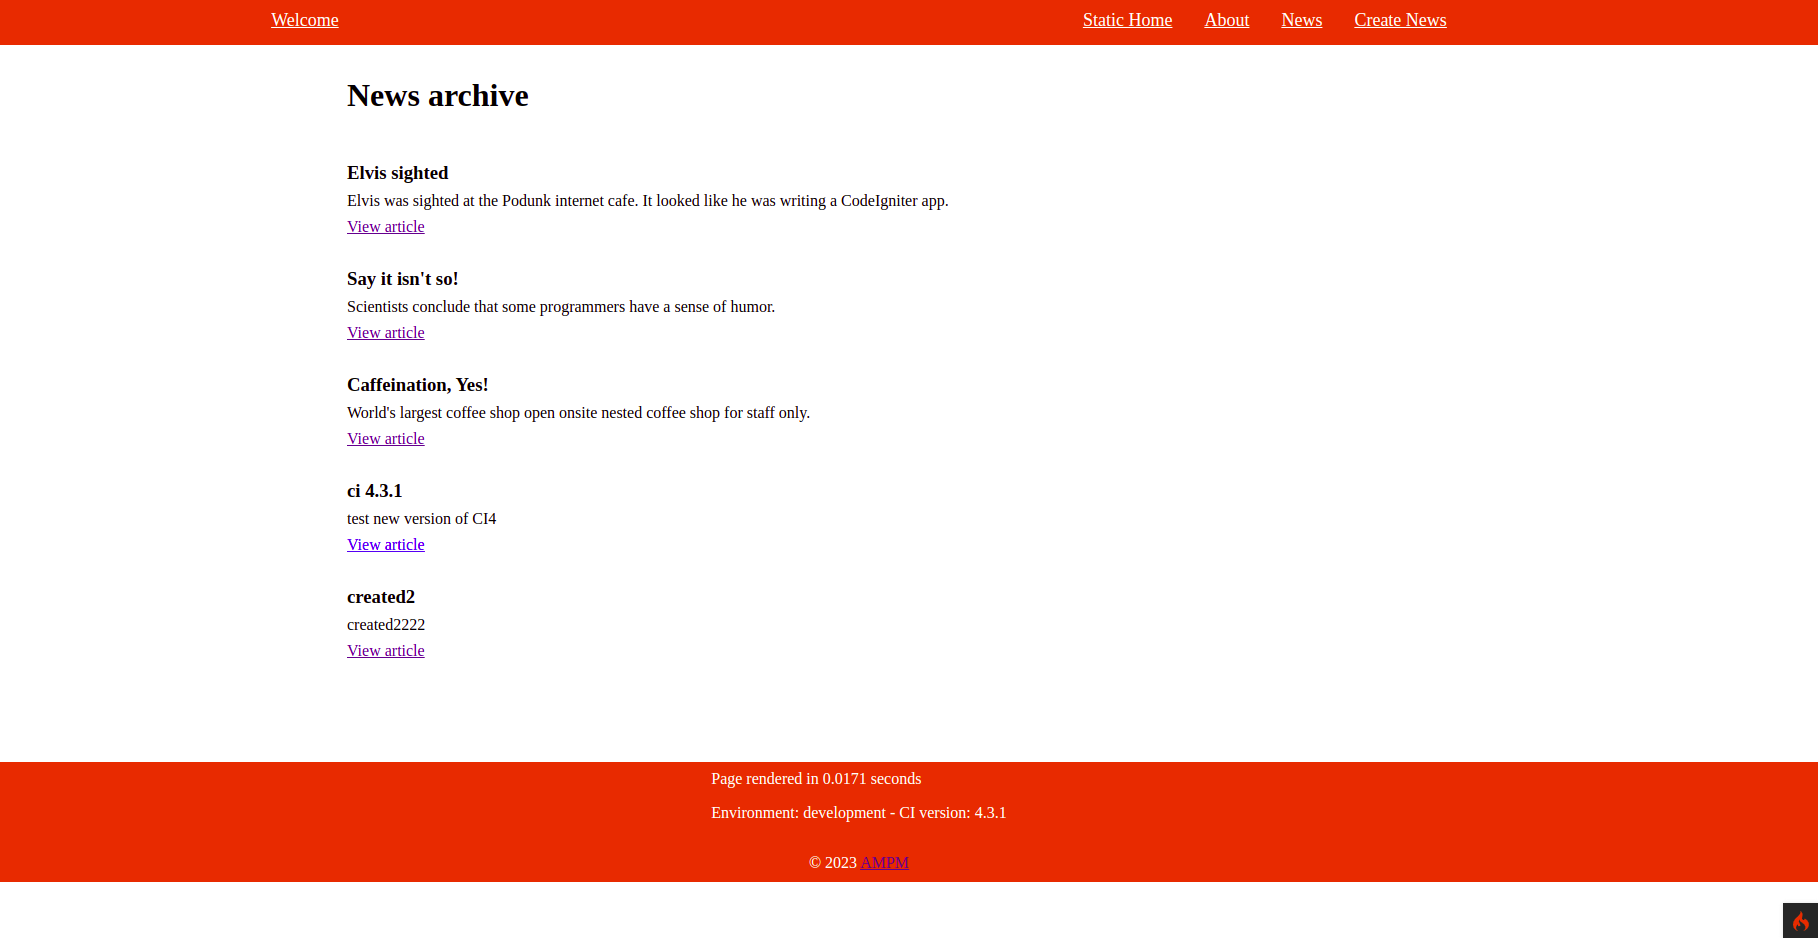
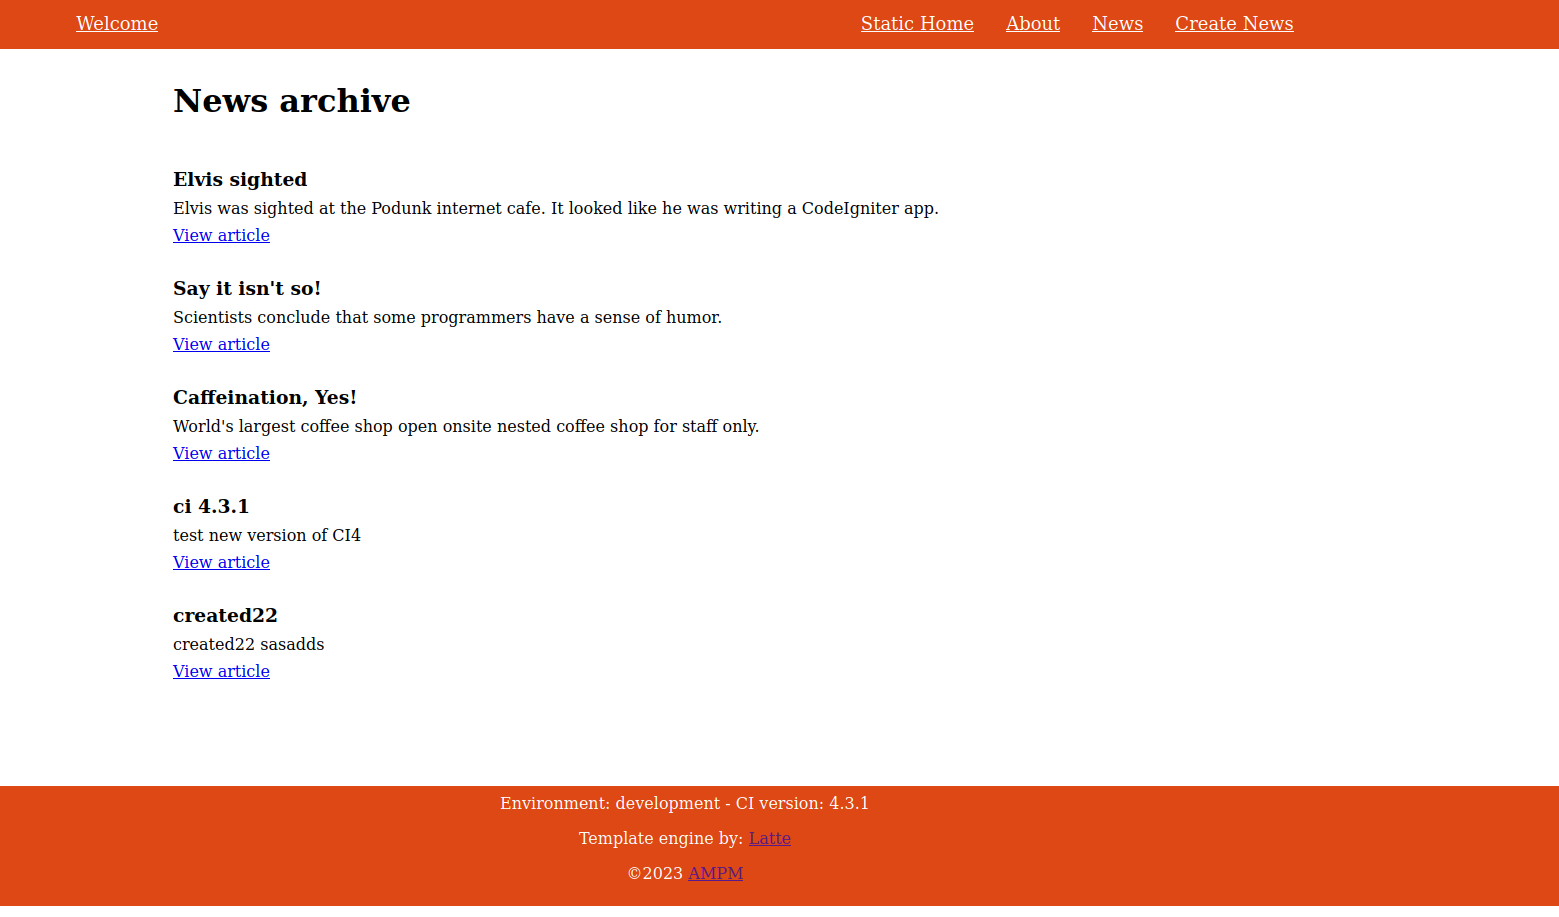
readme.md: updated some text and images

diff --git a/README.md b/README.md
@@ -1,21 +1,14 @@
-# CodeIgniter 4 - Build Your First Application
+# CodeIgniter 4 with Latte template engine
 
 ## About the project?
 
-Base on Docs of CI4:
+Base on my improved version of `ci4 - Build Your First Application`:
 
-[Build Your First Application](https://codeigniter.com/user_guide/tutorial/).
-
-With new feature added for better understanding the framework
+[Original improved](https://github.com/ampmonteiro/ci4-build-your-first-App).
 
 What was added:
 
-- taking advantages of layout system
-- Edit news item
-- remove news item
-- used of form_open helper
-- better routes organization
-- better visual
+- Latte template engine in news related views
 
 ## What was used
 
@@ -23,10 +16,15 @@ What was added:
 - mysql: 8
 - Docker
 - CodeIgniter: 4.3.1
+- Latte template engine: 3.0.5 -> [more about it](https://latte.nette.org/en/)
+
+## side by side template code (Latte vs Vanilla Ci4 template engine)
+
+![Ci4 Template engine vs Latte template engine](latte_vs_ci4_template.png 'Ci4 Template engine vs Latte template engine')
 
 ## image of the App
 
-![CI4 News-Improved](app_screen.png 'News APp')
+![CI4 News-Improved](app_screen.png 'News APP with Latte')
 
 ## Editor and Recommend extensions
 
@@ -37,6 +35,8 @@ What was added:
 - [PHP Namespace Resolver](https://marketplace.visualstudio.com/items?itemName=MehediDracula.php-namespace-resolver) (By Mehedi Hassan)
 
 - [PHP Awesome Snippets](https://marketplace.visualstudio.com/items?itemName=hakcorp.php-awesome-snippets) (By HakCorp)
+
+- [Nette Latte + Neon](https://marketplace.visualstudio.com/items?itemName=Kasik96.latte) (Martin Kase)
 
 - To better developement it is taked advantages of this two wonderfull vscode extensions:
   - [Docker](https://marketplace.visualstudio.com/items?itemName=ms-azuretools.vscode-docker) (By Microsoft): to manage docker containers in vs code
